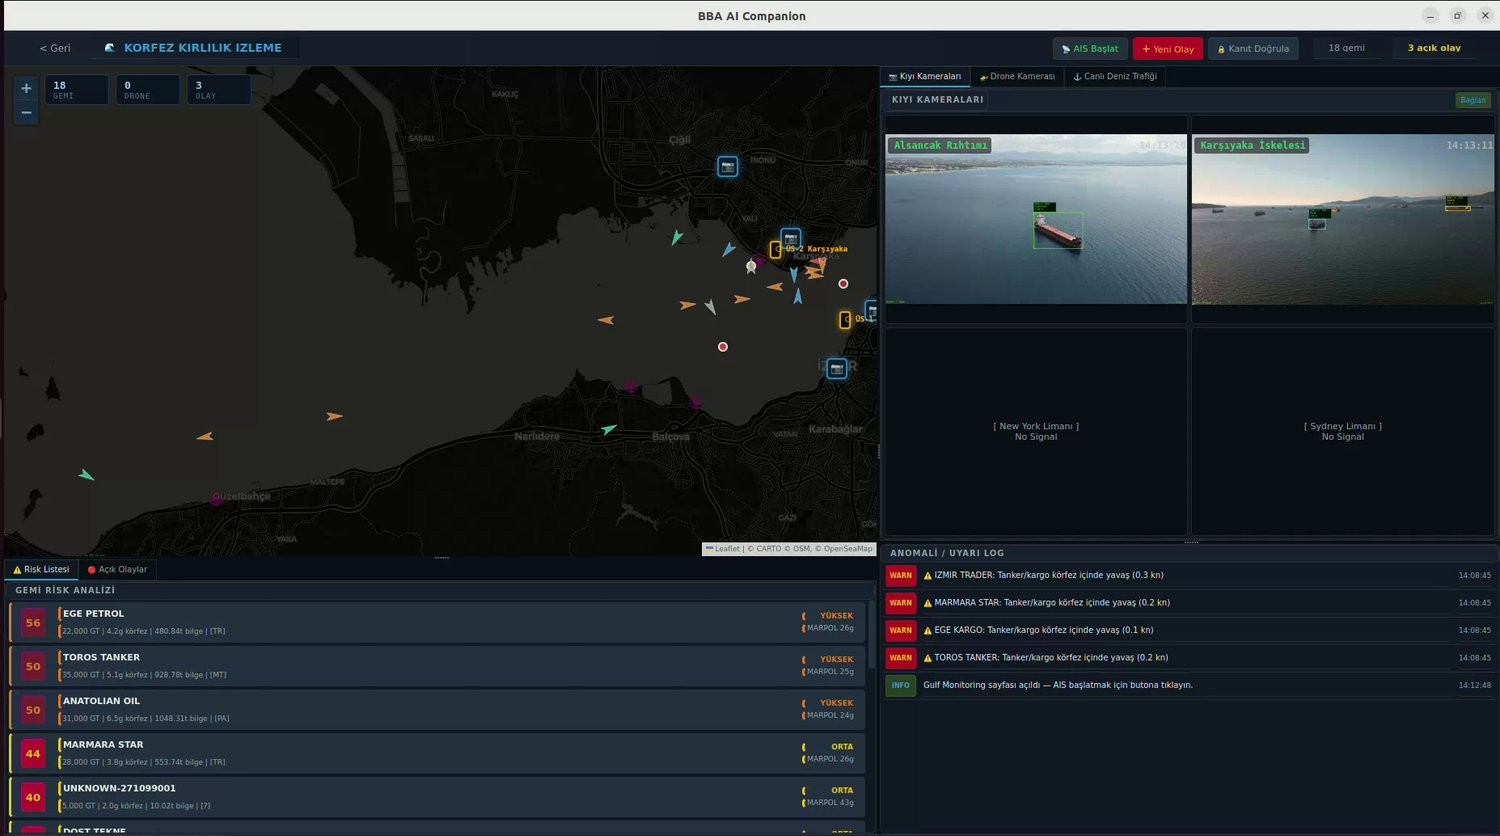
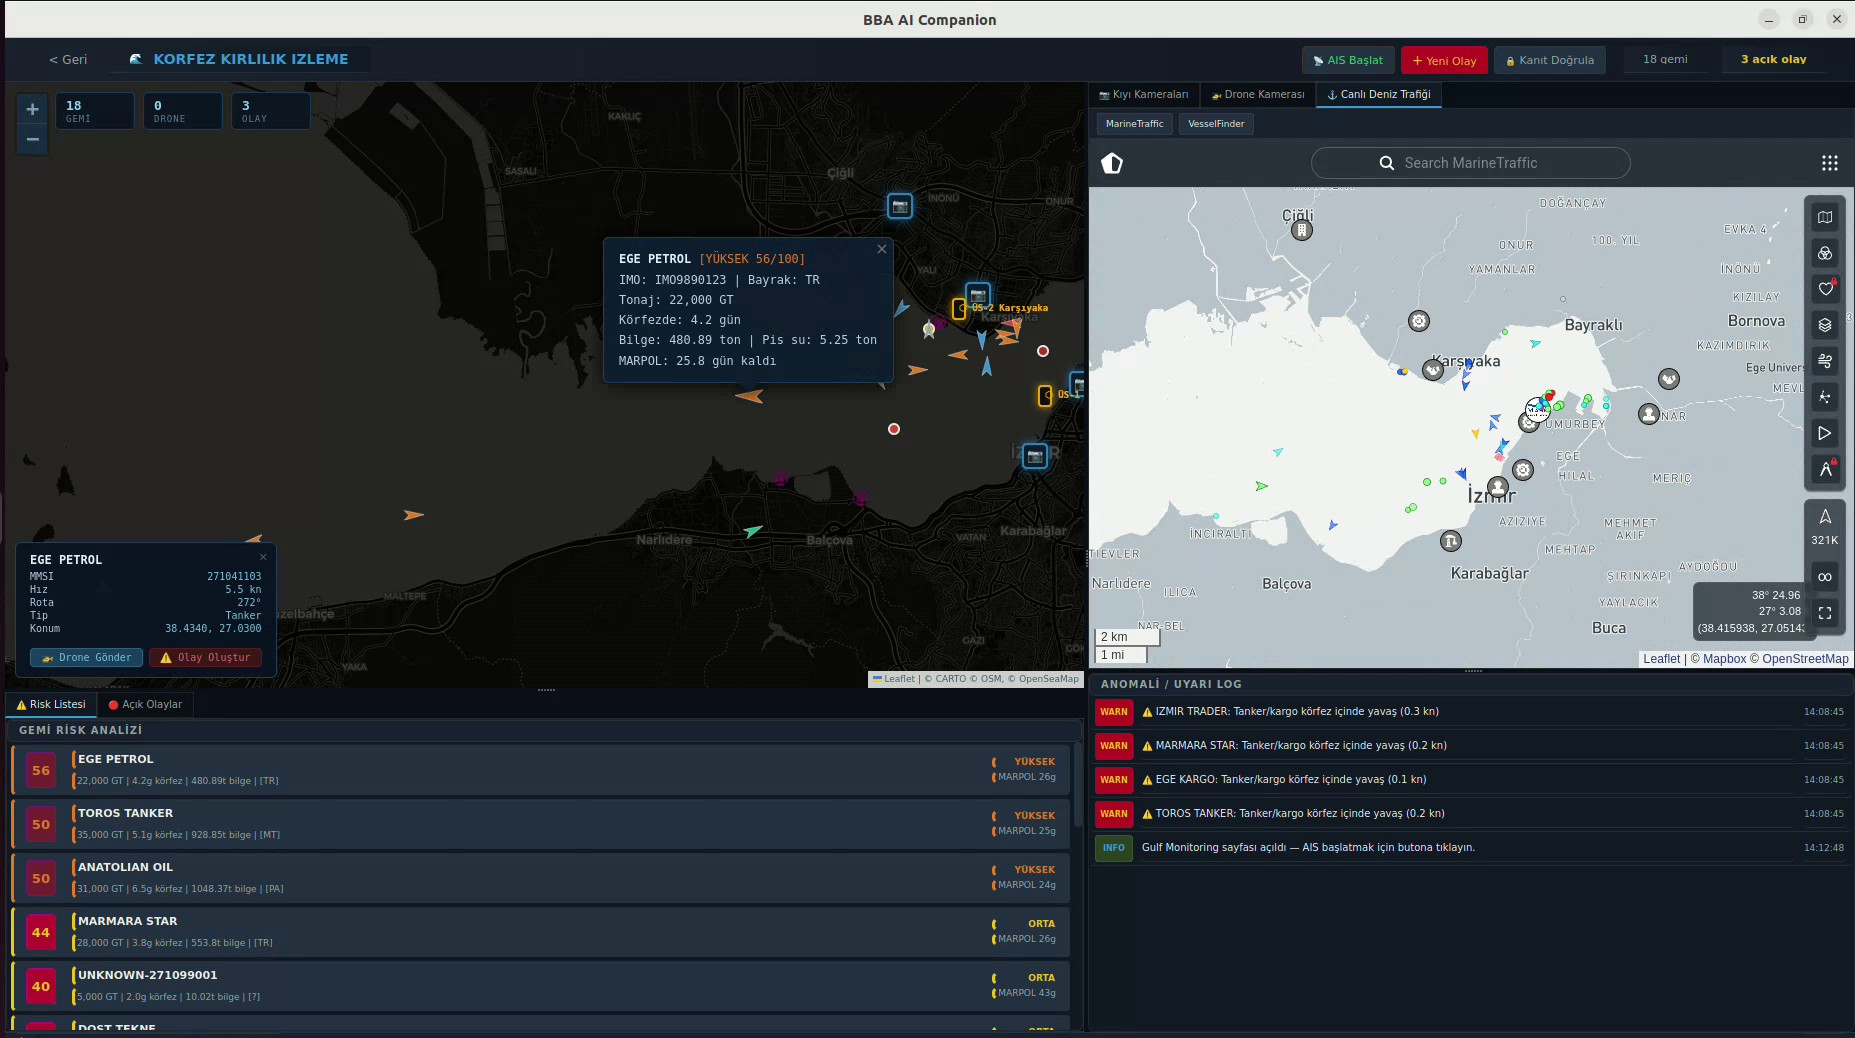
Bay card: real vessel detection frames from the demo recording
Claude-Session: https://claude.ai/code/session_01EnAMVS8WYD1AQB8nZ5wzMD

diff --git a/index.html b/index.html
@@ -150,9 +150,9 @@
 
   <div class="row flip">
     <div class="shot">
-      <img src="assets/bay.jpg" alt="Bay pollution monitoring screen">
-      <img src="assets/coast.jpg" alt="Survey flight over the bay">
-      <div class="cap">The operating picture, and one of our own survey flights over the bay</div>
+      <img src="assets/bay_detect.jpg" alt="Vessel detected on a coastal camera">
+      <img src="assets/bay.jpg" alt="Bay monitoring operating picture">
+      <div class="cap">A vessel picked out on a coastal camera, and the operating picture behind it</div>
     </div>
     <div class="body">
       <span class="tag t-built">02 · İzmir Metropolitan Municipality · built</span>
